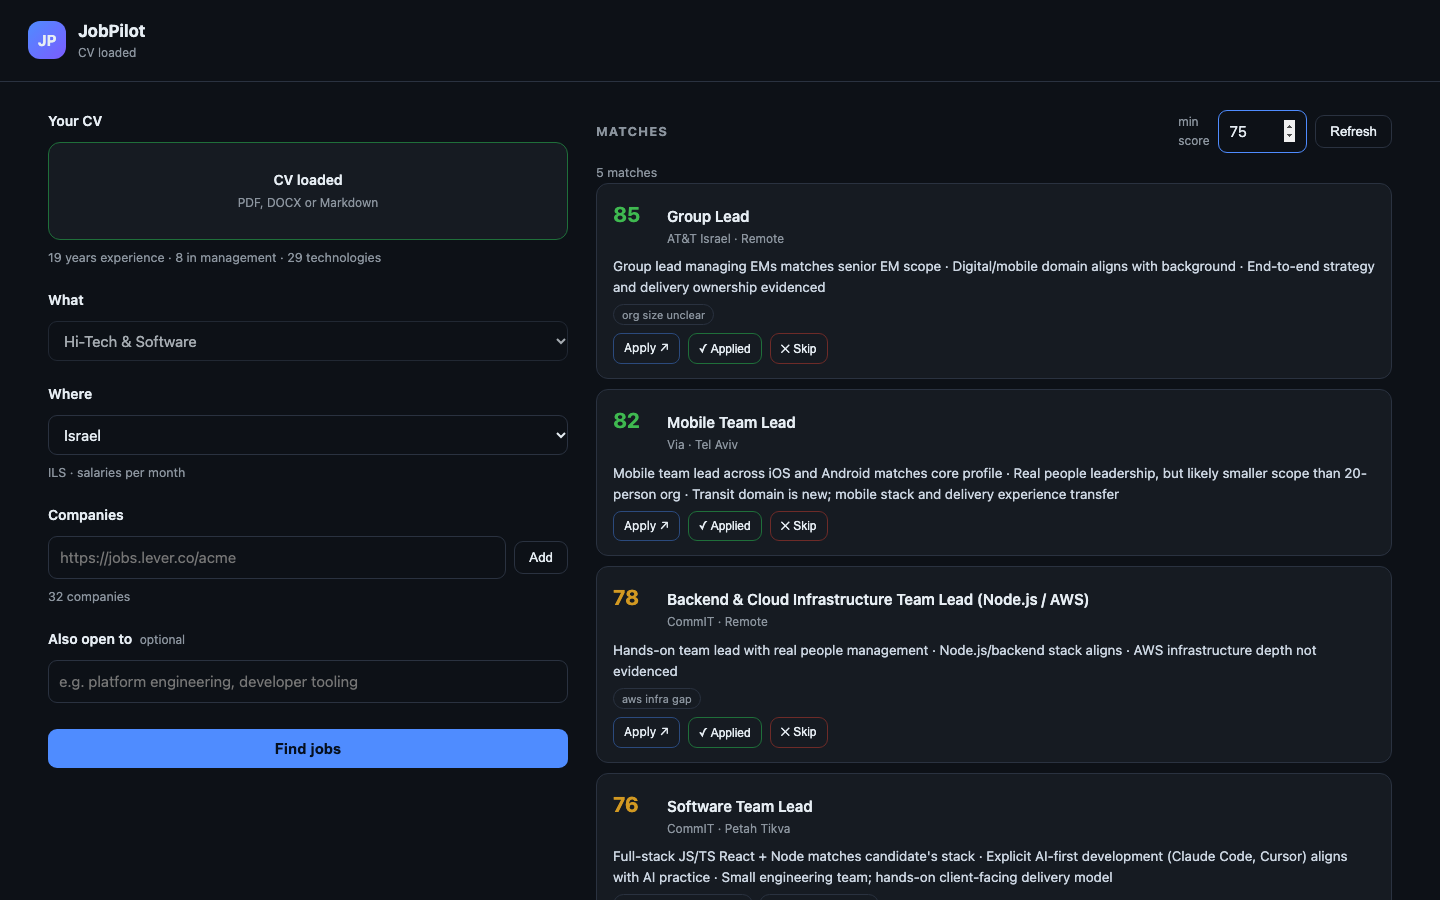
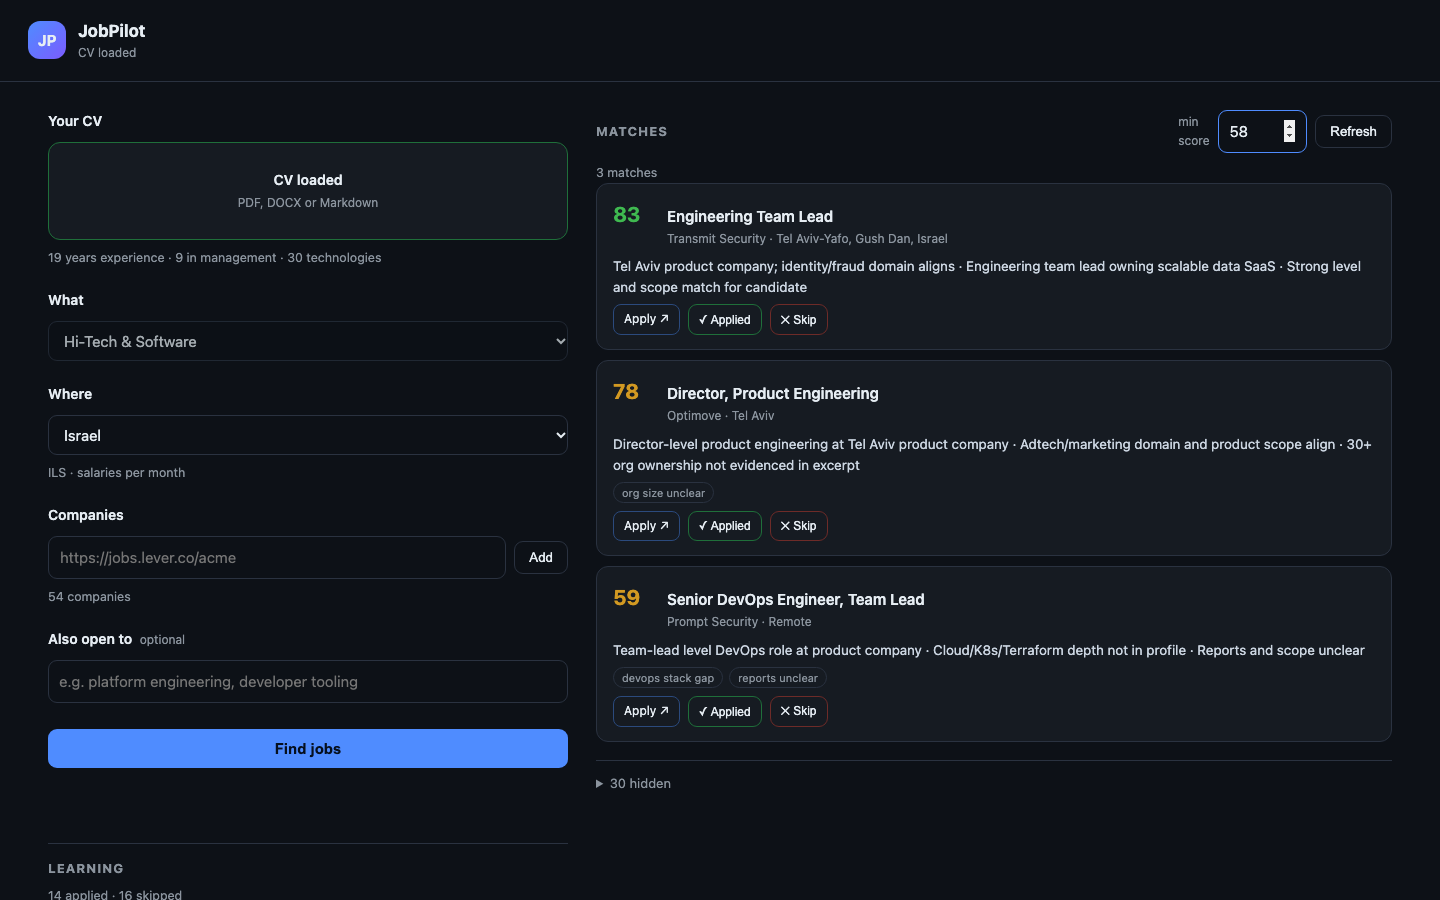
docs: refresh the README and screenshots, and make them truthful
The README image predated keyless discovery, the learning section and the
current shortlist. It is regenerated from the live installation at the bar the
labels actually imply (58), and a second image now shows the learning section
itself: counts, where the bar sits, the measured comparison.

Reading the new screenshots exposed two display defects, fixed here:

- the learning section said "15 applied · 17 skipped" for 30 decisions, because
  the counts were score rows (one per track), not postings. They now count
  distinct decisions, and the examples gate still uses rows.
- a job card printed one city in four spellings. It shows the first and keeps
  the rest in the tooltip; the digest already showed one.

Docs: the release checklist names the current test count, and SERVER documents
the two shapes of POST /api/undo.

diff --git a/src/engine/learn.ts b/src/engine/learn.ts
@@ -136,8 +136,9 @@ type Row = Record<string, unknown>;
 export function buildLearning(db: Db, profile?: Profile): LearningProfile {
   const rows = db
     .prepare(
-      `SELECT d.label AS label, s.track AS track, s.score AS score, s.reasons AS reasons,
-              j.title AS title, j.company AS company, j.description AS description
+      `SELECT d.label AS label, d.job_id AS jobId, s.track AS track, s.score AS score,
+              s.reasons AS reasons, j.title AS title, j.company AS company,
+              j.description AS description
        FROM decisions d
        JOIN scores s ON s.job_id = d.job_id
        JOIN jobs j ON j.id = d.job_id`,
@@ -146,6 +147,9 @@ export function buildLearning(db: Db, profile?: Profile): LearningProfile {
 
   const applied = rows.filter((r) => isPositive(String(r.label)));
   const skipped = rows.filter((r) => isNegative(String(r.label)));
+  // A posting can carry a score in two tracks; the user still made one decision.
+  const appliedJobs = new Set(applied.map((r) => String(r.jobId)));
+  const skippedJobs = new Set(skipped.map((r) => String(r.jobId)));
 
   const tracks = [...new Set(rows.map((r) => String(r.track)))].sort();
   const trackCalibration: TrackCalibration[] = tracks.map((track) => {
@@ -167,8 +171,8 @@ export function buildLearning(db: Db, profile?: Profile): LearningProfile {
 
   let suggestedMinScore: number | undefined;
   if (
-    applied.length >= MIN_APPLIED &&
-    skipped.length >= MIN_SKIPPED &&
+    appliedJobs.size >= MIN_APPLIED &&
+    skippedJobs.size >= MIN_SKIPPED &&
     appliedMedian !== undefined &&
     skippedMedian !== undefined
   ) {
@@ -208,7 +212,8 @@ export function buildLearning(db: Db, profile?: Profile): LearningProfile {
   const byTrack: Record<string, TrackExamples> = {};
   // The global gate comes first: per-track detail is a refinement of a sample
   // that is already large enough to say anything at all.
-  const enoughOverall = applied.length >= MIN_APPLIED && skipped.length >= MIN_SKIPPED;
+  const enoughOverall =
+    appliedJobs.size >= MIN_APPLIED && skippedJobs.size >= MIN_SKIPPED;
   for (const track of enoughOverall ? tracks : []) {
     const trackRows = rows.filter((r) => r.track === track);
     const trackApplied = trackRows.filter((r) => isPositive(String(r.label)));
@@ -226,16 +231,17 @@ export function buildLearning(db: Db, profile?: Profile): LearningProfile {
     profile && enoughOverall ? derivePreferences(rows, profile) : [];
 
   return {
-    applied: applied.length,
-    skipped: skipped.length,
+    applied: appliedJobs.size,
+    skipped: skippedJobs.size,
     enoughLabels: enoughOverall,
     preferences,
     constraints: listConstraints(db, "confirmed"),
     byTrack,
     trackCalibration,
     suggestedMinScore,
-    appliedExamples: pick(applied, "", MAX_EXAMPLES, MIN_APPLIED),
-    skippedExamples: pick(skipped, "", 2, MIN_SKIPPED),
+    // The gate above is counted in postings; the examples come from rows.
+    appliedExamples: enoughOverall ? pick(applied, "", MAX_EXAMPLES, 1) : [],
+    skippedExamples: enoughOverall ? pick(skipped, "", 2, 1) : [],
   };
 }
 
@@ -249,6 +255,9 @@ export function buildLearning(db: Db, profile?: Profile): LearningProfile {
 function derivePreferences(rows: Row[], profile: Profile): Preference[] {
   const applied = rows.filter((r) => isPositive(String(r.label)));
   const skipped = rows.filter((r) => isNegative(String(r.label)));
+  // A posting can carry a score in two tracks; the user still made one decision.
+  const appliedJobs = new Set(applied.map((r) => String(r.jobId)));
+  const skippedJobs = new Set(skipped.map((r) => String(r.jobId)));
   if (!applied.length || !skipped.length) return [];
 
   // Compared against the decisions that express a preference, not every row:

diff --git a/tests/learn.test.ts b/tests/learn.test.ts
@@ -77,6 +77,7 @@ test("overlapping distributions never move the threshold", () => {
 test("examples are the ones nearest the middle of each group", () => {
   const db = open(":memory:");
   seed(db, "applied", [10, 80, 81, 82, 99], "a");
+  seed(db, "skipped", [40, 42, 44, 46, 48, 50, 52, 54, 56, 58], "s");
 
   const learning = buildLearning(db);
   const scores = learning.appliedExamples.map((e) => e.score).sort((a, b) => a - b);
@@ -155,11 +156,12 @@ test("examples are scoped to the track being scored", () => {
 test("shortlisted counts as a positive decision", () => {
   const db = open(":memory:");
   seed(db, "shortlisted", [80, 82, 85, 88, 90], "a");
+  seed(db, "skipped", [40, 42, 44, 46, 48, 50, 52, 54, 56, 58], "s");
   const learning = buildLearning(db);
-  assert.equal(learning.applied, 5);
+
+  assert.equal(learning.applied, 5, "shortlisted is a positive decision");
+  assert.equal(learning.enoughLabels, true, "and it opens the gate");
   assert.ok(learning.appliedExamples.length > 0);
-  // Without any skips there is nothing to separate the two groups from.
-  assert.equal(learning.suggestedMinScore, undefined);
 });
 
 /* ---------- constraints stated in notes ---------- */
@@ -350,4 +352,21 @@ test("a confirmed constraint is enough to score with learning", () => {
 
   setConstraintStatus(db, "location_penalty", "confirmed");
   assert.equal(hasLearning(buildLearning(db), ["b"]), true, "a confirmed one must reach the scorer");
+});
+
+test("a posting scored in two tracks counts once as a decision", () => {
+  const db = open(":memory:");
+  upsertJobs(db, [job("a")]);
+  saveScores(
+    db,
+    [
+      { jobId: "a", track: "b", score: 80, reasons: [], flags: [] },
+      { jobId: "a", track: "c", score: 70, reasons: [], flags: [] },
+    ],
+    "m",
+    "h",
+  );
+  recordDecision(db, "a", "applied");
+
+  assert.equal(buildLearning(db).applied, 1, "one decision, not one row per track");
 });

diff --git a/src/ui/app.js b/src/ui/app.js
@@ -466,9 +466,13 @@ function renderJob(job) {
 
   const head = el("div");
   head.appendChild(el("div", "job-title", job.title));
-  // The feed often repeats one city in several spellings.
-  const where = job.remote ? "Remote" : [...new Set(job.locations || [])].join(", ") || "location n/a";
-  head.appendChild(el("div", "job-meta", `${job.company} · ${where}`));
+  // The feed often repeats one city in several spellings; the card shows one
+  // and keeps the rest in the tooltip.
+  const places = [...new Set(job.locations || [])];
+  const where = job.remote ? "Remote" : places[0] || "location n/a";
+  const meta = el("div", "job-meta", `${job.company} · ${where}`);
+  if (places.length > 1) meta.title = places.join(" · ");
+  head.appendChild(meta);
   top.appendChild(head);
   card.appendChild(top);
 

diff --git a/tests/ui.test.ts b/tests/ui.test.ts
@@ -872,3 +872,20 @@ test("restore all does nothing when the confirmation is declined", async () => {
   );
   dom.window.close();
 });
+
+test("a card shows one location and keeps the rest in the tooltip", async () => {
+  const multi = [
+    {
+      ...jobs[0],
+      locations: ["Tel Aviv-Yafo, Gush Dan, Israel", "Tel Aviv, Israel - HQ"],
+    },
+  ];
+  const dom = boot({}, multi);
+  await settle();
+
+  const meta = dom.window.document.querySelector(".job-meta")!;
+  assert.match(meta.textContent ?? "", /Tel Aviv-Yafo/);
+  assert.doesNotMatch(meta.textContent ?? "", /Israel - HQ/, "the duplicate spellings are not printed");
+  assert.match((meta as HTMLElement).title, /Israel - HQ/, "but they remain available on hover");
+  dom.window.close();
+});

diff --git a/scripts/screenshot.ts b/scripts/screenshot.ts
@@ -10,7 +10,7 @@ import { startServer } from "../src/server/server.ts";
 import { loadEnv } from "../src/engine/util.ts";
 
 const PORT = 7791;
-const MIN_SCORE = 75;
+const MIN_SCORE = 58;
 const OUT = "docs/screenshot.png";
 
 loadEnv();
@@ -58,6 +58,13 @@ try {
 
   await page.screenshot({ path: OUT });
   console.log(`wrote ${OUT}`);
+
+  // The learning section is the part that is not a job list; show it too.
+  const learning = page.locator("#learning");
+  if ((await learning.count()) && (await learning.isVisible())) {
+    await learning.screenshot({ path: "docs/learning.png" });
+    console.log("wrote docs/learning.png");
+  }
 } finally {
   await browser.close();
   server.close();

diff --git a/README.md b/README.md
@@ -132,6 +132,8 @@ every confirmed rule stays visible so you can remove it.
 It does not invent a preference you never expressed, and it never moves your
 threshold on its own — `npm run learn` tells you what it would suggest.
 
+<img src="docs/learning.png" width="720" alt="The learning section: decision counts, where the bar sits, and the measured comparison" />
+
 ---
 
 ## Getting started

diff --git a/docs/SERVER.md b/docs/SERVER.md
@@ -59,6 +59,9 @@ runs the CLI — the same command a person would type.
 Fourteen API endpoints, plus three static files. Writes are only ever in
 response to an explicit user action.
 
+`POST /api/undo` takes either `{ "jobId": "…" }` or `{ "all": true }`; the
+second clears every decision in one transaction and returns the count.
+
 ---
 
 ## 3. A run, over SSE

diff --git a/docs/RELEASE.md b/docs/RELEASE.md
@@ -65,7 +65,7 @@ Each release page carries the full notes:
 ## Before a release
 
 ```bash
-npm test             # typecheck + 367 tests
+npm test             # typecheck + 378 tests
 npm run health       # scheduler, last run, backups, directory
 npm run screenshot   # refresh the README image from the real UI
 ```
